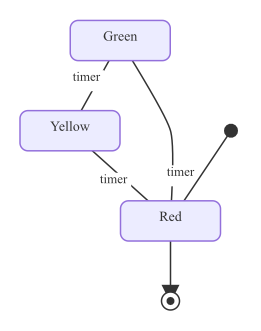
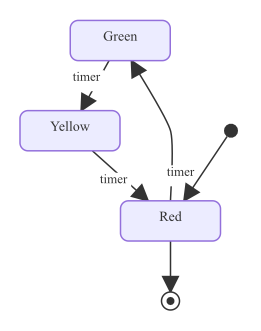
state: clip edge endpoints so arrowheads land on the node boundary
Edges previously ended at the layout-emitted point, which is the
node's center. With marker-end attached, the arrowhead glyph then
rendered inside the destination — invisible behind the rounded rect or
end ring. Same bug PR #72 fixed for flowchart.

clipNodeEdge picks the right boundary per node kind: rect clip
(via svgutil.ClipToRectEdge) for regular states, and a new
clipCircleEdge for pseudo nodes so the arrow tucks against the
visible glyph (startDotR / endRingR), not the larger 20×20 layout
box reserved around it.

Examples regenerated.

diff --git a/pkg/renderer/state/renderer.go b/pkg/renderer/state/renderer.go
@@ -257,6 +257,21 @@ func renderEdges(d *diagram.StateDiagram, l *layout.Result, pad, fontSize float6
 		for i, p := range el.Points {
 			pts[i] = layout.Point{X: p.X + pad, Y: p.Y + pad}
 		}
+		// Clip endpoints to source/target node boundaries so the
+		// marker-end arrowhead lands on the edge of the destination
+		// shape, not buried inside it. Cache direction references
+		// before mutating either endpoint — pts[1]/pts[len-2] alias
+		// for 2-point edges.
+		srcDir := pts[1]
+		dstDir := pts[len(pts)-2]
+		if src, ok := l.Nodes[eid.From]; ok {
+			x, y := clipNodeEdge(eid.From, src, pad, srcDir)
+			pts[0] = layout.Point{X: x, Y: y}
+		}
+		if dst, ok := l.Nodes[eid.To]; ok {
+			x, y := clipNodeEdge(eid.To, dst, pad, dstDir)
+			pts[len(pts)-1] = layout.Point{X: x, Y: y}
+		}
 
 		style := fmt.Sprintf("stroke:%s;stroke-width:1.5;fill:none", th.EdgeStroke)
 		if len(pts) == 2 {
@@ -329,6 +344,36 @@ func labelPosition(pts []layout.Point, base layout.Point) layout.Point {
 
 func isPseudoNode(id string) bool {
 	return isStartNode(id) || isEndNode(id)
+}
+
+// clipNodeEdge picks the right boundary clip for a state node. Regular
+// states are rounded rects so a rect clip suffices; pseudo (start/end)
+// nodes are circles, and clipping to their visible radius keeps the
+// arrowhead tucked against the glyph instead of floating in the
+// 20×20 layout box reserved around it.
+func clipNodeEdge(id string, n layout.NodeLayout, pad float64, dir layout.Point) (float64, float64) {
+	cx := n.X + pad
+	cy := n.Y + pad
+	if isStartNode(id) {
+		return clipCircleEdge(cx, cy, startDotR, dir.X, dir.Y)
+	}
+	if isEndNode(id) {
+		return clipCircleEdge(cx, cy, endRingR, dir.X, dir.Y)
+	}
+	return svgutil.ClipToRectEdge(cx, cy, n.Width, n.Height, dir.X, dir.Y)
+}
+
+// clipCircleEdge returns the point on the circle (center cx,cy,
+// radius r) along the ray toward (ox, oy). If (ox,oy) is at the
+// center, returns the center unchanged.
+func clipCircleEdge(cx, cy, r, ox, oy float64) (float64, float64) {
+	dx := ox - cx
+	dy := oy - cy
+	d := math.Sqrt(dx*dx + dy*dy)
+	if d == 0 {
+		return cx, cy
+	}
+	return cx + dx/d*r, cy + dy/d*r
 }
 
 func isStartNode(id string) bool {
